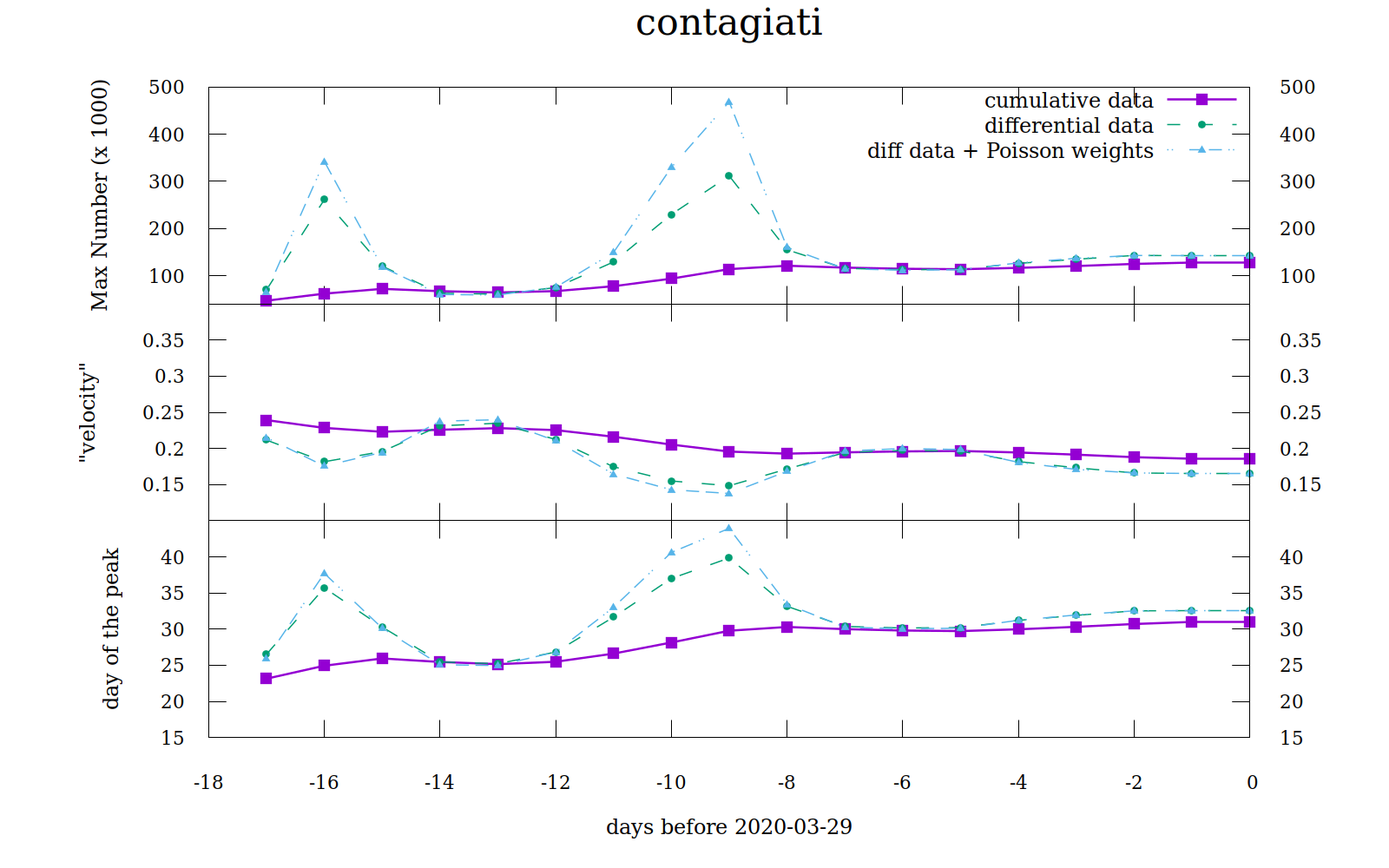
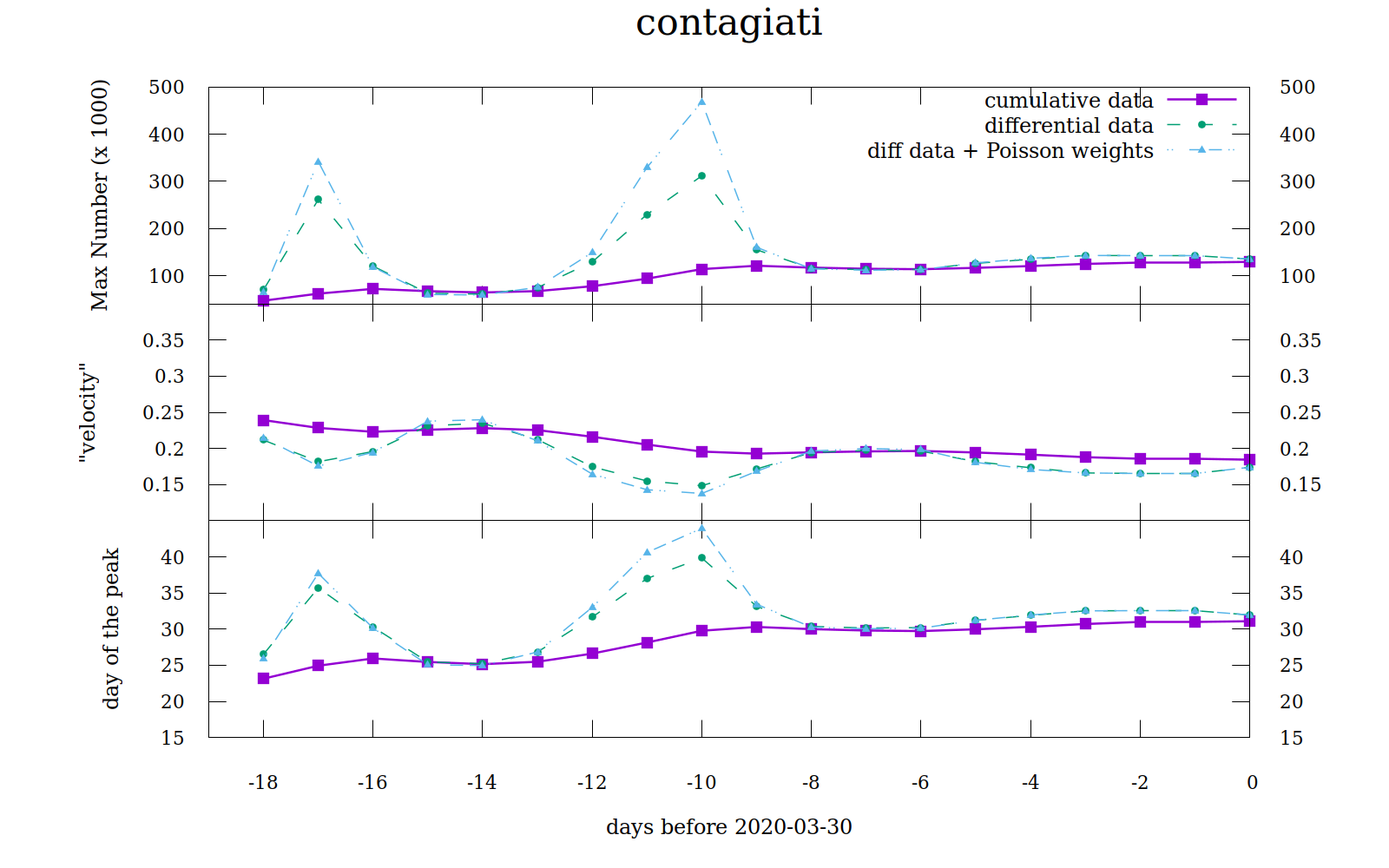
update 30/3/2020

diff --git a/README.md b/README.md
@@ -1,1 +1,284 @@
-# covid-19-italy
+# Qualche considerazione sui dati dell'epidemia di COVID-19 in Italia ( 27-3-2020 )$^{(*)}$
+
+Alla data odierna (27/3/2020) **e solo da qualche giorno, al [contrario delle 3 settimane precedenti](#Perché-NON-usare-una-curva-logistica-in-modo-superficiale),** penso che dai dati si possa essere _cautamente non pessimisti_ e si possano usare i fit delle curve per formulare cautamente delle ipotesi ragionevoli sul futuro. Se non ci sono esplosioni o eventi al momento inaspettati.
+
+
+In sintesi:
+
+- <font color="green">**Molto probabilmente abbiamo raggiunto "il picco".**</font>  [Qui](#blabla) ci sono i grafici e i ragionamenti che suggeriscono questa possibilità come non improbabile.
+  Ma è importante capire che non esiste l'Ora X: il "picco" non dura 1 giorno ma si "spalma" su più giorni con fluttuazioni.
+  
+  Per capire cos'è "il picco": [qui](#Quanto-cambia-una-logistica-nel-tempo).
+  Per capire **perché possiamo cautamente dirlo ora** e perché **molte code dette con i grafici delle scorse settimane erano sciocche**: [qui](#Perché-NON-usare-una-curva-logistica-in-modo-superficiale)
+  Per capire cos'è una curva logistica e che significato ha: [qui](#Uso-di-una-curva-logistica-come-quando-perché)
+  
+- <font color="green">**Il fatto che i decessi siano ancora alti NON significa che l'epidemia sta peggiorando.**</font>
+  Per quanto il bollettino giornaliero sia mostruoso, doloroso e terrificante, è importante capire che **i decessi ci raccontano cosa è successo 10-15 giorni fa** e **NON oggi**.
+  C'è una relazione che si sta dimostrando abbastanza affidabile tra il numero degli ospedalizzati e l'andamento dei decessi, che riflette un correlazione abbastanza ovvia. L'ISS l'ha formalizzata nei suoi bollettini a partire da ~ 10 giorni fa.
+  La mostro [qui](#L-andamento-dei-decessi-e-il-death-shift)
+
+- <font color="green">**Stanno funzionando le misure di contenimento? Quanto durerà?**</font>
+  _work in progress_, la faccenda è delicata
+
+
+
+_Per capire i dati uso una curva logistica; perché e che cos'è è spiegato [qui](#Uso-di-una-curva-logistica-come-quando-perché)_
+
+[_Nota metodologica generale_](#Nota-metodologica).
+
+
+
+## <font color="red">L'andamento dei decessi e il death-shift</font> 
+
+I [report settimanali](https://www.iss.it/en/rapporti-covid-19) dell'ISS riportano per i casi di decesso un _delay_ di circa 5 giorni fra l'insorgenza di sintomi gravi e il decesso medesimo. È una relazione che funziona piuttosto bene quando si sovrappone ai dati, e ci dice che l'alto numero dei decessi che osserviamo è assolutamente normale ed atteso perché è una conseguenza dell'alto numero di contagi e di persone ospedalizzate nei 10-15 giorni precedenti.
+
+In sostanza, osservando i decessi stiamo guardando nel passato, esattamente come succede in astronomia.
+
+Per sua natura, la curva dei decessi deve vedere il picco in ritardo rispetto sia al picco dei contagiati sia al picco delle ospedalizzazioni (a meno che, naturalmente, non intervengano altri fattori: una cura efficace, ad esempio, o la saturazione del sistema sanitario che non è più in grado di rispondere ai bisogni dei contagiati).
+
+Al momento, i fit che ottengo dalla curva dei decessi danno un picco contemporaneo alla curva dei contagi, che, anche se sarebbe una bellissima notizia, è purtroppo un _nonsense_. 
+In supporto al ragonamento sul _delay_ temporale, la figura qui sotto mostra perché probabilmente è un _nonsense_ (ed il perché è collegato al _delay_ cui accennavo all'inizio di questo paragrafo):
+
+![](./plots/projection_gaussianonly_5g.png)
+
+In questa figura i quadrati viola sono i decessi riscontrati ed attribuiti al COVID-19, la curva azzurra tratteggiata è la logistica ottenuta dal _fit_ degli stessi dati (all'ultimo giorno).
+La curva rossa invece è ottenuta:
+
+- spostando in avanti di 5 giorni il numero di ospedalizzati, e considerandone il 50%
+
+- sommando il numero ottenuto "spalmandolo" su 3 giorni <sup name="a1">[1](#f1)</sup>
+
+  <b id="f1">1</b> tecnicamente, con una gaussiana di sigma 1 giorno, anche se forse sarebbe meglio una log-normal. [↩](#a1)
+
+Non si tratta di un modello, ma solo di un'osservazione. La curva mostrata _non è un fit_, cioè non minimizza gli scarti dai dati osservati, è solo una suggestione.
+Tuttavia, è una suggestione che da almeno 3 settimane funziona molto bene (anche se precedentemente usavo 8 giorni e una frazione del 60%), con le ovvie fluttuazioni dovute alla enorme stocasticità dei processi coinvolti (il decorso di una malattia, le cure, eccetera). Più propriamente quella curva andrebbe smussata su intervalli _running_ di più giorni, ma non è questo il senso di questa nota e preferisco si veda così com'è.
+
+**Questa figura ci dice che purtroppo il numero dei decessi rimarrà superiore ai 600 al giorno ancora per 4-5 giorni _almeno_**, perché si tratta della conseguenza di quanto è già avvenuto, ripeto, 10-15 giorni fa. A meno che qualche altro fattore, che non si è mai presentato nelle scorse 3-4 settimane, entri in gioco (e sarebbe naturalmente una meravigliosa notizia).
+
+**Questa curva, tuttavia, pone anche un interrogativo**, poiché di fatto la si ottiene considerando che il 50% degli ospedalizzati di un certo giorno morirà 4-6 giorni dopo. Ora, _se tutti i decessi avvenissero in ospedale_ ci si aspetterebbe che la frazione di ospedalizzati da considerare fosse corrispondente al numero di decessi.
+Ad esempio: se la frazione di persone contagiate che richiede cure ospedaliere è del 10-15% e la mortalità sul totale dei contagiati è del 1-3% (questo intervallo di dati sembra essere  il risultato degli studi sulla regione dell'Hubei) e tutti i decessi avvengono in ospedale, allora la frazione di persone ospedalizzate che decedono è compresa **tra il ~6% e il ~30%** nel caso migliore e peggiore rispettivamente.
+
+Il fatto che questa frazione risulti essere il 50% degli ospedalizzati di 5 giorni prima ([una possibilità in comune con UK, secondo NHS](https://www.theguardian.com/society/2020/mar/28/coronavirus-intensive-care-uk-patients-50-per-cent-survival-rate)), o in altri termini il 20% dei contagiati registrati di ~7 giorni prima, significa molto probabilmente che è possibile che  _(i)_ [i contagiati reali siano molti di più dei contagiati registrati](#Forse-i-contagiati-reali-sono-molti-più-dei-contagiati-registrati) e _(ii)_ che forse una frazione sensibile dei decessi avviene al di fuori degli ospedali (la situazione al proposito è molto confusa e drammatica, soprattutto in Lombardia).
+
+
+
+## <font color="red">Picco, non picco e l'andamento dell'epidemia</font> 
+
+
+L'andamento del contagio nel suo complesso, ovvero la somma di contagi, ospedalizzazioni e decessi, visto in forma grafica è come segue:![](./plots/logistiche.png)
+
+I <font color="darkviolet">quadrati viola</font> sono i contagi rilevati, i <font color="green">triangoli verdi</font> sono le persone ospedalizzate e i <font color="darkred">triangoli rossi</font> sono i decessi. Le linee dello stesso colore che attraversano i punti sono le [curve logistiche](#Uso-di-una-curva-logistica-come-quando-perché) che al momento li descrivono meglio. Le bande colorate alla fine delle curve sono le "previsioni" che quelle curve permettono di fare. Le bande tratteggiate sono le previsioni che _facevano le curve che meglio descrivevano i dati di **7 giorni fa**_.
+Le bande racchiudono l'errore previsto entro circa il 67%.
+Queste curve sono ottenute dai dati cumulativi, ma [qui](#Perché inizio a fidarmi delle curve) discuto perché, basandomi sui dati differenziali, penso che ci si possa iniziare a fidare.
+
+La figura qui sotto mostra l'**errore** che la curva attuale fa nel descrivere i dati passati. Come si vede gli errori sono inferiori al ~5% o meno da circa 15 giorni.
+![](./plots/logistiche_residui.png)
+
+Questo potrebbe far pensare che il _"fit"_ (ingergo è la curva migliore che descrive i dati) sia molto buono ma non bisogna lasciarsi ingannare da questo: per definizione un fit è la curva che minimizza gli errori.
+**[Qua](#Perché-NON-usare-una-curva-logistica-in-modo-superficiale) spiego perché bisogna considerare queste curve - e quelle che si vedono in giro - con cautela**.
+È certamente un buon segno che da molti giorni gli errori siano così bassi, ma questo non significa che si possano trarre delle previsioni precise davvero stabili: infatti, come si nota nella prima figura, le previsioni di una settimana fa NON stanno descrivendo molto bene i dati di adesso.
+Potrebbe essere che fra un paio di giorni la curva ritorni in quelle previsioni, oppure no: **il punto è che c'è ancora molto rumore stocastico**.
+Tuttavia, fino a circa una settimana fa (~22 marzo) il rumore era decisamente maggiore, mentre ora _cautamente_ è possibile dire qualcosa sulla tendenza dell'epidemia senza sbagliare di troppo.
+
+<font color="green">Ovvero, come è anticipato all'inizio di questo testo, **probabilmente siamo nei dintorni del picco dei contagi**</font>.
+
+**Se questo è vero**, ciò significa che:
+
+1. i decessi purtroppo rimarranno alti ancora per ~5 giorni ([qui](#L-andamento-dei-decessi-e-il-death-shift) spiego perché)
+2. la necessità di nuove ospedalizzazione potrebbe iniziare a diminuire a breve
+3. la saturazione della curva dei contagi, cioè il momento in cui NON si avranno nuovi contagi dovrebbe richiedere circa 40 giorni ancora
+4. per pensar di essere ragionevolmente fuori dell'epidemia a quel punto bisognerà attendere ancora 2 periodi massimi di incubazione, ovvero $\sim 30\; (2\times 14)$ giorni.
+
+
+
+##### <font color="red">Perché inizio a fidarmi delle curve</font>
+
+Penso che si possa cautamente ritenere di essere intorno al picco dei contagi grazie ai due grafici seguenti:
+
+Grafico A:![](./plots/logistiche_derivate.png)
+
+Questo grafico mostra il comportamento degli indicatori differenziali del fit (in sostanza: della derivata del fit, ovvero degli eventi giornalieri), che sono **molto sensibili** al "rumore" dei dati. Il fatto che stiano lentamente e stabilmente convergendo porta a pensare che l'epidemia è nei dintorni del picco.
+Come si nota, fino a ~7-10 giorni fa questo non era vero e infatti le "curve migliori" potevano cambiare molto di giorni in giorno, trasportando in alto o in basso l'umore di chi leggeva improvvide dichiarazioni in vari social-post .
+
+Grafico B:![](./plots/fit_contagiati.png)
+
+Il "grafico B" qui sopra mostra l'andamento dei parametri della curva logistica dei contagi nei passati ~20 giorni. Il viola mostra i parametri della curva usata in tutte le figure precedenti, ovvero quella ottenuta dai dati cumulativi.
+Le altre due curve, quella verde e quella azzurra, sono relative ai parametri della logistica ottenuta in modo leggermente diverso, cioè considerando il numero di eventi al giorno (per i contagi, le ospedalizzazioni e i decessi; in questo grafico mostro solo quelle per i contagi). La curva azzurra è ottenuta dagli eventi giornalieri ma pesandoli supponendo che siano soggetti a rumore Possoniano (ovvero dando più affidabilità ai giorni con maggior numero di eventi; in sostanza badando meno ai primo ~10 giorni dell'epidemia).
+Questo modo di considerare i dati è molto più sensibile al rumore, come si può notare e il fatto che tutti i 3 fit si siano stabilizzati e stiano convergendo contribuisce a farmi ritenere che l'epidemia sia vicina al picco.
+
+(come è spiegato [qui](#Quanto-cambia-una-logistica-nel-tempo) il "picco" è il momento in cui il numero di "eventi" giornaliero è al suo massimo).
+
+Quanto scritto appena qui sopra è vero **se non "esplodono" eventi inattesi**, ovvero se in qualche territorio l'epidemia non va di nuovo fuori controllo o il sistema sanitario cede per lo stress. Tuttavia, guardando i dati delle singole regioni al momento sembra che l'epidemia non dia segni di ripresa in nessun territorio:
+
+![](./plots/all_regions_5d_cases.png)
+
+nel grafico qui sopra sono mostrati i casi registrati, allineati al giorno del superamento dei 5 decessi e il numero di contagiati registrati è diviso per il numero dei casi a quello stesso giorno. In sostanza, l'altezza della curva dice di quanto i casi rilevati si siano moltiplicati dal giorno del superamento del 5 decesso.
+I quadrati viola e i cerchi verdi indicano per ogni curva l'11 Marzo e il 23 Marzo.
+L'11 Marzo è il giorno dell'entrata in vigore delle prime misure più restrittive, mentre il 23 Marzo è il giorno dela chiusura di (almeno) alcuni luoghi di lavoro (ricordiamo che tra l'11 e il 23 Marzo milioni di persone hanno continuato ad andare in **moltissimi** luoghi di lavoro non pubblici, anche quelli legati a produzioni non essenziali per continuare a garantire i servizi essenziali ed importanti).
+
+Come si vede, praticamente tutte le regioni stanno abbandonano una crescita esponenziale pura (che sarebbe una linea retta in questo grafico). Le due linee tratteggiate infatti mostrano due esponenziali: quella inferiore un esponenziale con tempo di raddoppiamento di 5 giorni, quella superiore con un tempo di raddoppiamento di 2.5 giorni. Tutte le regioni hanno ormai un tempo di raddoppiamento significativamente maggiore di 5 giorni, e in continua crescita.
+
+Questo grafico mostra le ospedalizzazioni, ma solo nelle regioni "peggiori" (dal punto di vista dei numero di decessi):
+![](./plots/worst_regions_5d_cases.png)
+
+e quest'ultimo grafico mostra invece i decessi ([ricordiamo](#L-andamento-dei-decessi-e-il-death-shift) che i decessi "guardano" nel passato di ~5 giorni) nelle stesse regioni ![](./plots/worst_regions_5d_deaths.png)
+
+I commenti sono gli stessi che nel caso precedente. Tutte le regioni peggiori mostrano incoraggianti segno di costante miglioramento, e quindi questi ultimi grafici sono rassicuranti sul fatto che non ci saranno altre "esplosioni" inattese
+
+
+
+------
+
+------
+
+------
+
+
+
+## <font color="red">Forse i contagiati reali sono _molti_ più dei contagiati registrati</font> 
+
+Che i contagiati registrati siano un limite inferiore del numero di contagiati reali è una considerazione del tutto ovvia e, immagino, valida in ogni situazione. 
+Quale sia il numero dei contagiati reali è di indubbio interesse per una serie di ovvi motivi: darebbe la misura reale dell'andamento e della diffusione del virus, del rapporto tra [asintomatici](#Quali-dati-usare-e-il-numero-totale-di-contagiati) e sintomatici, del comportamento del sistema sanitario nazionale e, non di minore importanza, del tasso di mortalità.
+
+Capire quale sia questo numero non è una questione semplice e al momento può essere fatto solo in modo approssimato e indiretto. Oltretutto, i dati sono molto incerti, disomogenei fra territori diversi e riflettono anche comportamenti e standard differenti fra i vari sistemi sanitari locali.
+**Tuttavia, diverse considerazioni portano a ritenere che il numero dei contagiati reali sia sostanzialmente superiore al numero dei contagiati registrati**.
+
+1. Il numero delle persone che richiedono l'ospedalizzazione in Italia è molto alto.
+   Nel mese scorso il [tasso di ospedalizzazione](./plots/tasso_ospedalizzazione.png) è stato fra il 30% e il 50% (media e mediana sui giorni entrambe ~39%) a fronte di un tasso di ospedalizzazione [tipico](https://jamanetwork.com/journals/jama/fullarticle/2762130) del 10-15%.
+   Ipotizzando che la popolazione degli ospedalizzati sia completa (ovvero che tutte le persone che necessitavano di cure ospedaliere sono state individuate e che tutte hanno avuto accesso alle cure ), questo potrebbe significare che la popolazione dei contagiati reali è 2.5-4 volte quella dei contagiati rilevati (ovvero alla data del 30/3/2020 tra le **~250mila** e le **~400mila** persone).
+   Ciò riporterebbe il tasso di mortalità a circa il $\sim3\%$.
+   
+2. Il numero delle persone asintomatiche tra i contagiati rilevati è, per i dati disponibili, <img align="right" src="./plots/asintomatici.png" style="zoom:33%;" /> stabile intorno al 6% (la figura qui a fianco riporta i dati del rapporto ISS del 30/3/2020).
+
+   Quanto siano in effetti i contagiati asintomatici sul lungo periodo è ancora difficile da stimare a quanto pare:  [il rapporto ECDC](https://www.ecdc.europa.eu/en/publications-data/rapid-risk-assessment-novel-coronavirus-disease-2019-covid-19-pandemic-increased) del 12 marzo 2020 stima che la percentuale di contagiati che rimangono asintomatici sul lungo periodo è molto bassa, anche intorno al ~1-3%.
+   Tuttavia, a [quanto pare](#[https://www.scienzainrete.it/articolo/facciamo-tutta-italia-come-vo%E2%80%99-e-corea-del-sud/sergio-romagnani/2020-03-16](https://www.scienzainrete.it/articolo/facciamo-tutta-italia-come-vo'-e-corea-del-sud/sergio-romagnani/2020-03-16)) il ~%75% dei contagiati di Vo' risultava, almeno sul breve periodo asintomatico. Se prendessimo questo dato come rappresentativo, allora vorrebbe dire che moltissimi asintomatici non sono stati rilevati e potremmo ricavare da ciò una stima della dimensione della popolazione degli asintomatici reali. Quindi, se supponiamo che gli asintomatici siano il ~50-75% dei contagiati, poiché solo il 6% dei contagiati rilevati è asintomatico allora ciò potrebbe significare che i contagiati reali sono ~1.9-3.8 volte i contagiati rilevati, ovvero tra le **~190mila** e le **~380mila** persone (alla data del 30/3/2020).
+   
+3. Anche la mortalità potrebbe essere usata per riscalare il numero di contagiati rilevati al numero di contagiati reali. Anche questo dato al momento è molto incerto, essendo nell'intervallo ~1-3%, con punte più elevate in alcuni territori. Assumendo ~3%, dovremmo riscalare il numero di contagiati rilevati di circa 3-4 volte.
+   Tuttavia, in questo momento la mortalità in Italia sta mostrando un comportamento che non comprendo bene.
+
+
+
+## <font color="red">Quali dati usare e il numero totale di contagiati</font> 
+
+Nonostante la maggior parte delle analisi e delle discussioni che ho visto in rete si concentri sull'andamento dei **contagiati registrati**, questo numero non è un ottimo indicatore dell'andamento dell'epidemia, come qualcuno ha già notato pubblicamente (incredibile che non fosse chiaro da subito) .
+O meglio, lo sarebbe se si potesse avere sotto scrutinio costante _tutta la popolazione suscettibile_, cosa che ovviamente non è possibile. La Germania, avendo iniziato il *testing* già a Gennaio è riuscita fin'ora ad avere una stima delle persone contagiate molto buona (ed è per questo che il tasso di mortalità in Germania è così basso, oltre a questioni legate ai conteggi: [qui](https://www.theguardian.com/world/2020/mar/22/germany-low-coronavirus-mortality-rate-puzzles-experts) ad esempio c'è una breve ma interessante discussione su questo punto). Può essere tuttavia che con li procedere dell'epidemia anche i conteggi tedeschi divergeranno da una buona stima.
+Probabilmente, Il numero dei contagiati registrati rimane comunque un buon *proxy* (cioè un indagatore stabilmente agganciato al numero reale) dei contagiati sintomatici.
+
+Al contrario, gli **ospedalizzati**, ovvero le persone che devono ricorrere a cure ospedaliere, è un ottimo (solo in senso statistico, purtroppo) indicatore di come l'epidemia procede, _se il sistema sanitario è in grado di rispondere ai bisogni di tutti i soggetti in stato di necessità_.
+Per questo è necessario supporre che gruppi umani abbastanza grandi grandi rispondano in modo omogeneo al virus; ovvero che i cinesi, gli europei, gli americani, gli africani, ma anche gli italiani, gli spagnoli, i tedeschi, ecc. si ammalano gravemente nella stessa quantità relativa, cioè che una stessa frazione della popolazione incorre in sintomi gravi. Ciò al momento sembra essere verificato, come è lecito aspettarsi, e anche i sintomi per questo virus sono molto ben caratterizzati. 
+La frazione di popolazione che ha bisogno di cure ospedaliere oscilla tra il **10%** e il **15%**.
+
+Anche i [**decessi**](#L-andamento-dei-decessi-e-il-death-shift) purtroppo sono un numero ottimale per capire l'andamento della malattia. Forse si tratta del numero più stabile, perché è il più certo - _sempre se il sistema sanitario non è al collasso e tutte le morti vengono correttamente registrate e addebitate alla malattia_.
+Da un punto di vista logico, è lecito aspettarsi che su un numero di malati grande emerga un comportamento coerente del decorso che porta al decesso, ovvero un tempo caratteristico tra l'insorgenza del sintomi e il decesso. Naturalmente, non si tratta di un tempo cronometrico, ma di un percorso che ha una significativa varianza individuale e una dipendenza dalle cure cui i soggetti sono sottoposti.
+
+
+
+
+## <font color="red">Uso di una curva logistica, come quando perché</font>
+
+[Che cos'è una curva logistica](#Che-cos'è-una-curva-logistica)
+
+[Significato dei parametri della curva logistica](#Significato-dei-parametri-della-curva-logistica)
+
+[Quanto cambia una logistica nel tempo: ovvero cos'è il "picco"](#Quanto-cambia-una-logistica-nel-tempo)
+
+[Perché usare una curva logistica](#Perché-usare-una-curva-logistica)
+
+[**Perché NON usare una curva logistica in modo superficiale**](#Perché-NON-usare-una-curva-logistica-in-modo-superficiale)
+
+#### Che cos'è una curva logistica
+
+La curva logistica (una curva che ha una forma di "S" stirata; all'inizio e alla fine è confondibile con un esponenziale) è la curva di sviluppo di un fenomeno intrinsecamente esponenziale in un "mondo finito", ovvero in un ambiente in cui i soggetti suscettibili di partecipare al fenomeno si esauriscono mano a mano che il fenomeno si sviluppa.
+Questo accade per la crescita delle popolazioni, per l'utilizzo (predatorio, ovvero a tasso di crescita costante) delle risorse e molti altri fenomeni.
+In realtà, vi sono molte curve "a S", più o meno adatte a diversi fenomeni; esiste una formulazione generale da cui si deriva una gran parte di esse.
+Io per analizzare i dati sto usando una semplice logistica simmetrica 
+$$
+S(t) = \frac{L}{1+e^{k\times(x-\tau)}}
+$$
+Che ha questa forma (la linea viola della figura qui sotto): come si vede, la quantità descritta dalla curva (in questo caso: contagiati, ospedalizzati, guariti, decessi, eccetera) cresce inizialmente in modo _apparentemente_ molto lento, poi "esplode" esponenzialmente in modo che la differenza fra un giorno e il precedente e sempre più grande;  fino a raggiungere un punto (il punto di flesso, il famoso "picco") in cui inverte la tendenza e piano piano raggiunge il suo valore massimo mentre la variazione giornaliera è sempre minore.
+
+La crescita della logistica rispetto al valore è molto grossa: nell'esempio qui sotto, alla fine raggiunge un valore che è pari a 6000 volte quello del giorno 1 (scala $y$ a destra).
+
+![logistica_esempio](./plots/logistica_esempio.png)
+
+#### Significato dei parametri della curva logistica
+
+**x** è il tempo, ovvero il giorno cui si riferiscono i dati, o le previsioni
+
+**L** è il parametro di saturazione, ovvero il massimo valore che la curva raggiungerà (formalmente dopo un tempo infinito, ma in pratica dopo un tempo sufficientemente grande rispetto al parametro $k$; ad esempio, dopo un tempo pari a $2\times k$ (60 giorni nell'esempio sopra) si può assumere che la curva è arrivata a saturazione.
+
+**k** è la "velocità" con cui la curva cresce all'inizio o diminuisce alla fine. Più è piccolo più la curva è "lenta" e più tempo ci vuole per arrivare al valore massimo $L$. In sostanza, più $k$ è piccolo più la "S" è stiracchiata, più è grande e più la "S" è "ripida"
+
+**$\tau$** è il momento in cui la curva cambia curvatura: ovvero quando inizia a flettere e dal regime di crescita passa al regime in cui poi arriverà al valore massimo.
+
+#### Quanto cambia una logistica nel tempo
+
+La variazione della quantità descritta dalla curva (per noi, ad esmepio, i contagiati o gli ospedalizzati) è il numero di eventi che osserviamo giorno per giorno: ovvero quanti contagiati, guariti, ospedalizzati o, purtroppo, decessi si contano in più rispetto al giorno prima.
+
+Nella [figura precedente](#esempio-logistica) la linea azzurra tratteggiata è la variazione della logistica (la linea viola) in ogni punto: dove la curva azzurra è più ripida la logistica varia di più da giorno a giorno, dove è meno ripida o piatta varia meno. **Il punto in cui varia di più è il punto centrale**, che corrisponde al parametro **$\tau$** spiegato più sopra: questo è il punto dove la curva cambia curvatura, e dove la sua variazione è più rapida.
+È il famoso e tanto atteso "**picco**" di cui si parla, ovvero il giorno in cui i contagiati del giorno saranno di più ma poi inizieranno a decrescere.
+Essendo un processo biologico e sociale che coinvolge corpi reali e dinamiche personali, il "picco" in realtà si spalma su qualche giorno e può avere delle fluttuazioni: possiamo quindi dire di averlo superato solo dopo un po' di tempo, quando i conteggi giornalieri saranno stabilmente e significativamente in decrescita. E, soprattutto, quando gli indicatori _differenziali_ dei fit, che sono molto sensibili al "rumore", saranno stabili.
+
+In realtà, come spiego [qui](#Andamento-dei-decessi), i contagiati sono un conteggio approssimato: è bene incrociare i dati della variazione dei contagiati (cioè quanti nuovi contagiati ogni giorno) con altri due indicatori, ovvero gli ospedalizzati e i decessi.
+
+#### Perché usare una curva logistica
+
+Essenzialmente per 2 motivi.
+
+1. **per ignoranza**: le altre curve usate in epidemiologia hanno più parametri e, sostanzialmente, è più delicato usarle con consapevolezza; ovvero, in questo caso, bisogna essere degli epidemiologi che sanno quello che stanno facendo caso per caso. Io non lo sono, quindi mi limito al caso più semplice e di più facile interpretazione.
+2. applicato alla regione dell'Hubei, che sembra essere a saturazione, la curva logistica **funziona piuttosto bene**:
+   ![](./plots/logistiche_cina_decessi.png)
+
+Nella figura qui sopra i quadrati viola sono i decessi cumulativi dell'Hubei (fonte: report quotidiano WHO), la linea gialla è la logistica che li interpola. I triangoli azzurri sono i decessi cumulativi dell'Italia (fonte: [dati della protezione civile](https://github.com/pcm-dpc/COVID-19/tree/master/dati-andamento-nazionale)), la linea rossa è la logistica che li interpola e la linea tratteggiata è la continuazione della stessa logistica.
+I dati sono allineati al giorno del superamento dei 100 decessi ([perché scelgo i decessi](#Quali-dati-usare)).
+
+#### Perché <font color="red">NON</font> usare una curva logistica in modo superficiale
+
+Il punto è che usare una curva logistica mentre siamo **prima del flesso**, o picco, del fenomeno che osserviamo **per fare delle "previsioni"** è **molto sciocco** _quando siamo di fronte a fenomeni che hanno una inerente natura stocastica_ come, appunto, un'epidemia durante la quale gli eventi non avvengono _singolarmente_ in modo certo.
+
+In sostanza, nessuno può sapere quando un preciso soggetto verrà in contatto con il virus, se si ammalerà, se e quando svilupperà i sintomi e il decorso della malattia. Questo è ovvio per chiunque.
+La conseguenza è che "i dati", cioè l'insieme degli eventi singoli che osserviamo, sono soggetti a fluttuazioni, cioè a deviazioni dai valori che sarebbero stati attesi secondo una certa curva.
+Quindi, quando si trova la "curva che fitta meglio i dati", ovvero quella che è "meno sbagliata" rispetto alle osservazioni, questa curva è fortemente sensibile alle variazioni stocastiche degli eventi medesimi **e può dare risultati molto diversi nel giro di pochi giorni**.
+
+**Il "rumore" degli eventi è MOLTO più grande prima del flesso** e si riduce moltissimo dopo il flesso. Ecco perché è molto sciocco e fuorviante affannarsi a fare previsioni, altalenando tra euforia e disperazioni in balia delle fluttuazioni da un giorno all'altro.
+L'uso corretto dei fit in quella fase è una _cauta_ rilevazioni di tendenze e, soprattutto, il monitoraggio della distanza dal picco che è tanto maggiore quanto maggiore è la varianza dei parametri della curva che fitta i dati.
+
+Per avere un esempio di come funziona, nella figura qui sotto ho "costruito" 3 popolazioni di dati che seguono di base una logistica ma sui quali ho aggiunto un segnale di rumore Possoniano, ovvero simile a quello atteso in un processo epidemico:
+![](./plots/logistic_errors.larger.png)
+
+Nella figura mostro il rapporto tra il valore dei dati e il valore "vero" della logistica da cui sono stati costruiti.
+La conseguenza, ripero, è che finché siamo prima del flesso i valori del fit della curva che otteniamo sono estremamente "rumorosi", cioè tanto più variabili ed imprecisi quanto più siamo lontani dal flesso.
+In questa gif animata, mostro come cambia la curva ottenuta dai fit dei dati giorno per giorno. È ovvio vedere quello che dicevo ora: prima del picco le curve cambiano in modo notevole, mentre a cominciare da pochi giorni prima del picco (giorno 30) si stabilizzano sempre di più.
+**A questo punto** possiamo usare la logistica per fare delle previsioni, **se non  incorrono nuovi fenmeni rumorosi** (ad esempio lo svilupparsi di un altro focolaio importante).
+
+![](./plots/logistic.gif)
+
+La forma della curva è diversa da quella che si vede nella figura precedente perché qui è stata graficata in scala verticale _logaritmica_. È solo un modo diverso di mostrarla per poter vedere nello stesso grafico curve molto diverse fra loro (notate che nella scala verticale i valori variano di 100,000 volte).
+
+
+
+## <font color="red">Nota metodologica</font>
+
+Le epidemie sono un fenomeno altamente specifico che va trattato con competenza. Il fatto che spesso non si ha un'unica popolazione con un insorgere coevo dell'epidemia ma alla convoluzione di focolai multipli fra di loro sfasati e fra di loro non omogenei rende l'applicazione di modelli epidemiologici non banale.
+In Italia, com'è noto, l'insorgere dell'epidemia si è avuto in tempi molto diversi e le peculiarità e disomogeneità territoriali ne possono determinare un'evoluzione affatto differente.
+
+**I grafici che sono discussi qui NON sono un "modello" dell'epidemia**, che appunto richiederebbe un trattamento singolare di ogni regione, se non di ogni provincia, con delle assunzioni che io non sono in grado di fare.
+
+**Si tratta solo di un tentativo di "monitorare" l'andamento dell'epidemia**, così come ricostruibile dai dati della protezione civile, nazionali e regionali.
+Forse **con qualche accuratezza in più** di alcuni altri plot incauti che si sono visti circolare, che, ad esempio, propagavano un continuo e altalenante aggiornamento dell'andamento in una fase in cui contemporaneamente c'era un'ovvia espansione esponenziale e un elevato "rumore Poissoniano" del segnale osservabile.
+Fino a circa il ~20-22 Marzo 2020 i _fit_ (cioè le "curve" che meglio descrivono i dati fino ad un certo momento) presentavano una grande variabilità di giorno in giorno: questo era il segnale che il "rumore" - cioè la manifestazione dei processi stocastici tipici dei processi biologici e umani - era ancora troppo grande e, sostanzialmente, si potevano avverare molti scenari differenti. Fare "previsioni" in quel regime, e rimanere appesi alle variazioni giornaliere - di dati oltretutto [non troppo significativi](#Quali-dati-usare) - non ha molto senso: l'unica conclusione sensata era che non c'era ancora una conclusione.
+Una discussione più tecnica con qualche dimostrazione di questo fatto è [qui](#Perché-NON-usare-una-curva-logistica-in-modo-superficiale), alla fine dello spiegone sulla curva logistica.
+
+------
+
+------
+
+------
+
+
+
+##### <font color="red">Chi sono</font>
+
+Io sono un astrofisico e non un epidemiologo. Queste note sono soltanto un piccolo monitoraggio dei dati, e le varie considerazioni sono molto caute e prudenti proprio perché la materia è _molto_ complessa.
+Per fortuna, gli scienziati che lavorano all'ISS hanno ampiamente mostrato di saper fare bene il loro lavoro. In particolare ho molto apprezzato che, in modo assolutamente corretto, non abbiano rilasciato predizioni e speculazioni se non quando fossero solidamente basate.
+Al contrario di troppe persone, alle volte provviste di tabelle excel, su troppi social.
